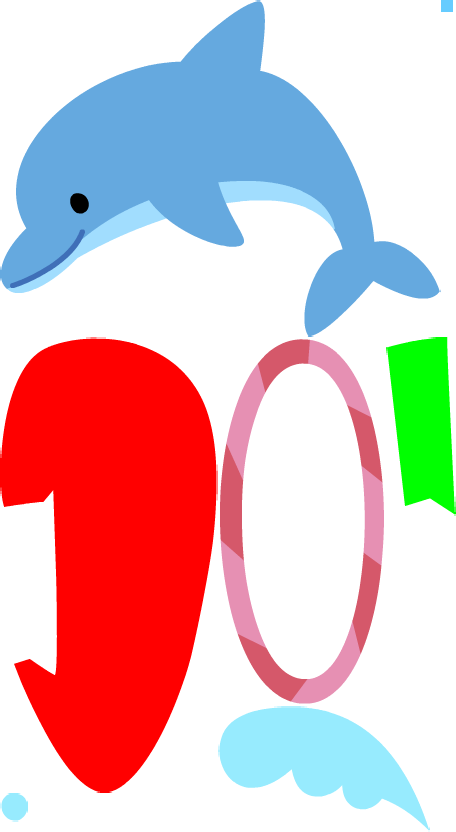
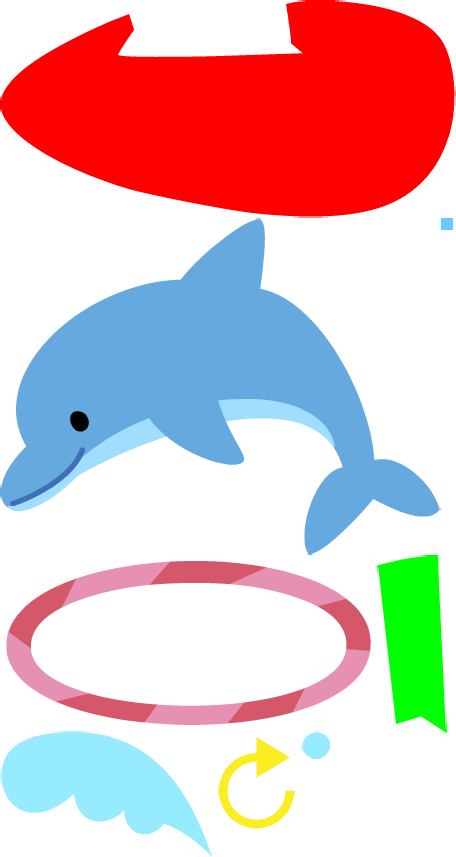
Add reload button

diff --git a/html5/list/06_iruka/_/pic_iruka_05.lwf.js b/html5/list/06_iruka/_/pic_iruka_05.lwf.js
@@ -1,3 +1,3 @@
 global['LWF'] = global['LWF'] || {};
 global['LWF']['DataScript'] = global['LWF']['DataScript'] || {};
[2 lines of base64/hex data omitted]

diff --git a/html5/list/06_iruka/index-canvas-birdwatcher.html b/html5/list/06_iruka/index-canvas-birdwatcher.html
@@ -64,6 +64,6 @@
     <script type="text/javascript">/* birdwatcher is disabled */</script>
   </head>
   <body>
-    <script type="text/javascript" src="../../js/loading.js" interval="1" update_time="1702457430.2993858"></script>
+    <script type="text/javascript" src="../../js/loading.js" interval="1" update_time="1702542935.557444"></script>
   </body>
 </html>

diff --git a/html5/list/06_iruka/index-canvas-debug.html b/html5/list/06_iruka/index-canvas-debug.html
@@ -64,6 +64,6 @@
     <script type="text/javascript">/* birdwatcher is disabled */</script>
   </head>
   <body>
-    <script type="text/javascript" src="../../js/loading.js" interval="1" update_time="1702457430.2993858"></script>
+    <script type="text/javascript" src="../../js/loading.js" interval="1" update_time="1702542935.557444"></script>
   </body>
 </html>

diff --git a/html5/list/06_iruka/index-canvas.html b/html5/list/06_iruka/index-canvas.html
@@ -64,6 +64,6 @@
     <script type="text/javascript">/* birdwatcher is disabled */</script>
   </head>
   <body>
-    <script type="text/javascript" src="../../js/loading.js" interval="1" update_time="1702457430.2993858"></script>
+    <script type="text/javascript" src="../../js/loading.js" interval="1" update_time="1702542935.557444"></script>
   </body>
 </html>

diff --git a/html5/list/06_iruka/index-webgl-birdwatcher.html b/html5/list/06_iruka/index-webgl-birdwatcher.html
@@ -64,6 +64,6 @@
     <script type="text/javascript">/* birdwatcher is disabled */</script>
   </head>
   <body>
-    <script type="text/javascript" src="../../js/loading.js" interval="1" update_time="1702457430.2993858"></script>
+    <script type="text/javascript" src="../../js/loading.js" interval="1" update_time="1702542935.557444"></script>
   </body>
 </html>

diff --git a/html5/list/06_iruka/index-webgl-debug.html b/html5/list/06_iruka/index-webgl-debug.html
@@ -64,6 +64,6 @@
     <script type="text/javascript">/* birdwatcher is disabled */</script>
   </head>
   <body>
-    <script type="text/javascript" src="../../js/loading.js" interval="1" update_time="1702457430.2993858"></script>
+    <script type="text/javascript" src="../../js/loading.js" interval="1" update_time="1702542935.557444"></script>
   </body>
 </html>

diff --git a/html5/list/06_iruka/index-webgl.html b/html5/list/06_iruka/index-webgl.html
@@ -64,6 +64,6 @@
     <script type="text/javascript">/* birdwatcher is disabled */</script>
   </head>
   <body>
-    <script type="text/javascript" src="../../js/loading.js" interval="1" update_time="1702457430.2993858"></script>
+    <script type="text/javascript" src="../../js/loading.js" interval="1" update_time="1702542935.557444"></script>
   </body>
 </html>

diff --git a/html5/list/06_iruka/index-webkitcss-birdwatcher.html b/html5/list/06_iruka/index-webkitcss-birdwatcher.html
@@ -64,6 +64,6 @@
     <script type="text/javascript">/* birdwatcher is disabled */</script>
   </head>
   <body>
-    <script type="text/javascript" src="../../js/loading.js" interval="1" update_time="1702457430.2993858"></script>
+    <script type="text/javascript" src="../../js/loading.js" interval="1" update_time="1702542935.557444"></script>
   </body>
 </html>

diff --git a/html5/list/06_iruka/index-webkitcss-debug.html b/html5/list/06_iruka/index-webkitcss-debug.html
@@ -64,6 +64,6 @@
     <script type="text/javascript">/* birdwatcher is disabled */</script>
   </head>
   <body>
-    <script type="text/javascript" src="../../js/loading.js" interval="1" update_time="1702457430.2993858"></script>
+    <script type="text/javascript" src="../../js/loading.js" interval="1" update_time="1702542935.557444"></script>
   </body>
 </html>

diff --git a/html5/list/06_iruka/index-webkitcss.html b/html5/list/06_iruka/index-webkitcss.html
@@ -64,6 +64,6 @@
     <script type="text/javascript">/* birdwatcher is disabled */</script>
   </head>
   <body>
-    <script type="text/javascript" src="../../js/loading.js" interval="1" update_time="1702457430.2993858"></script>
+    <script type="text/javascript" src="../../js/loading.js" interval="1" update_time="1702542935.557444"></script>
   </body>
 </html>
